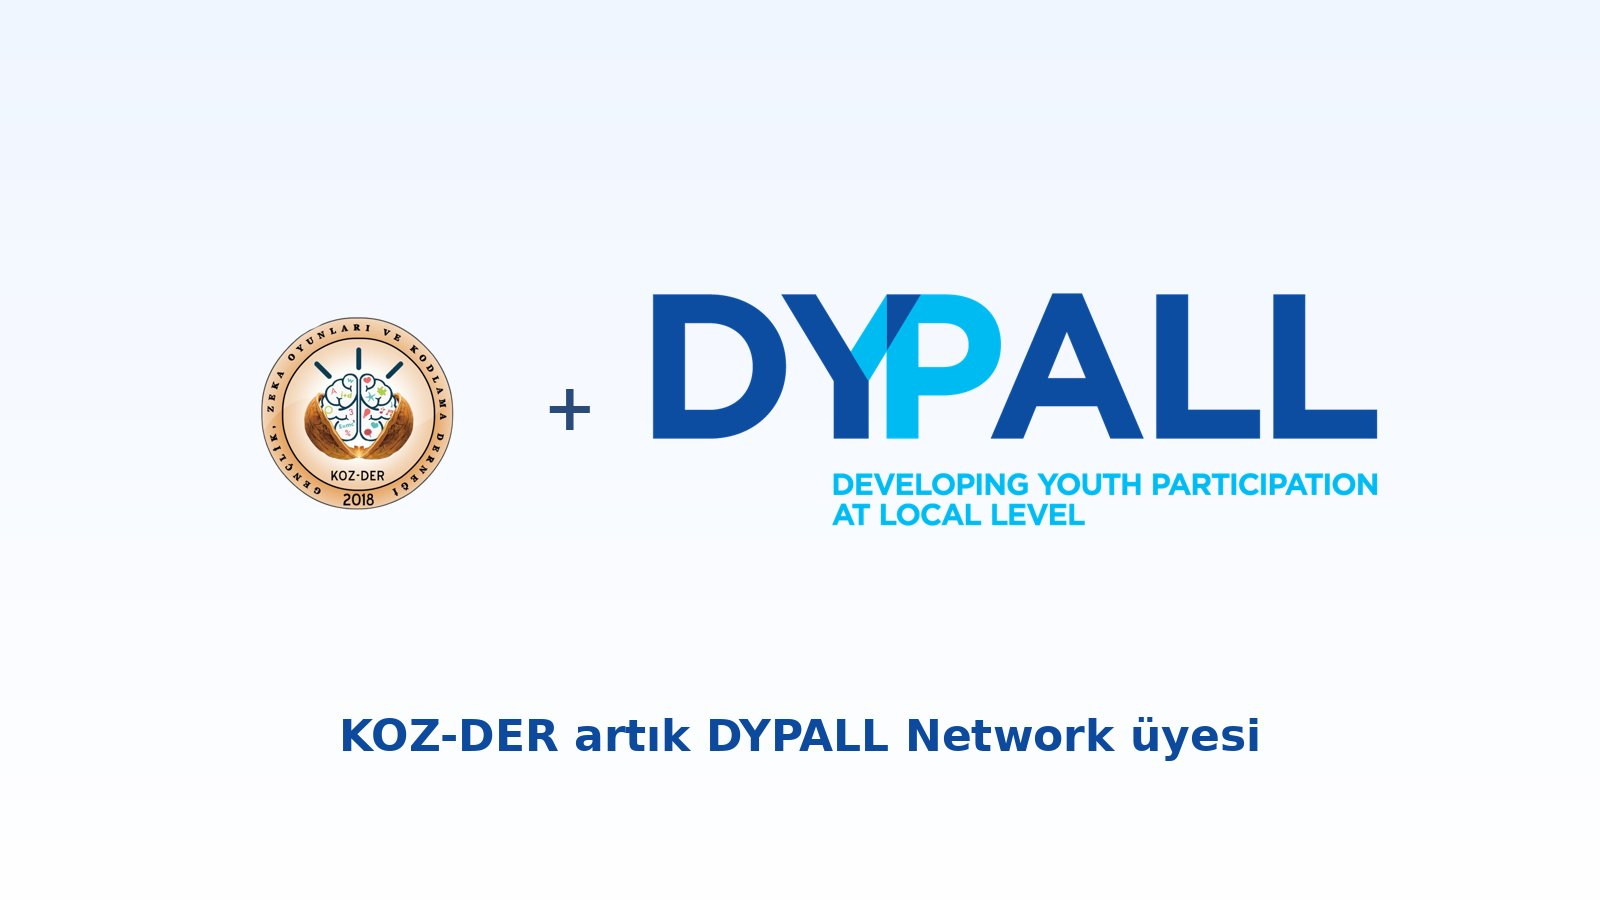
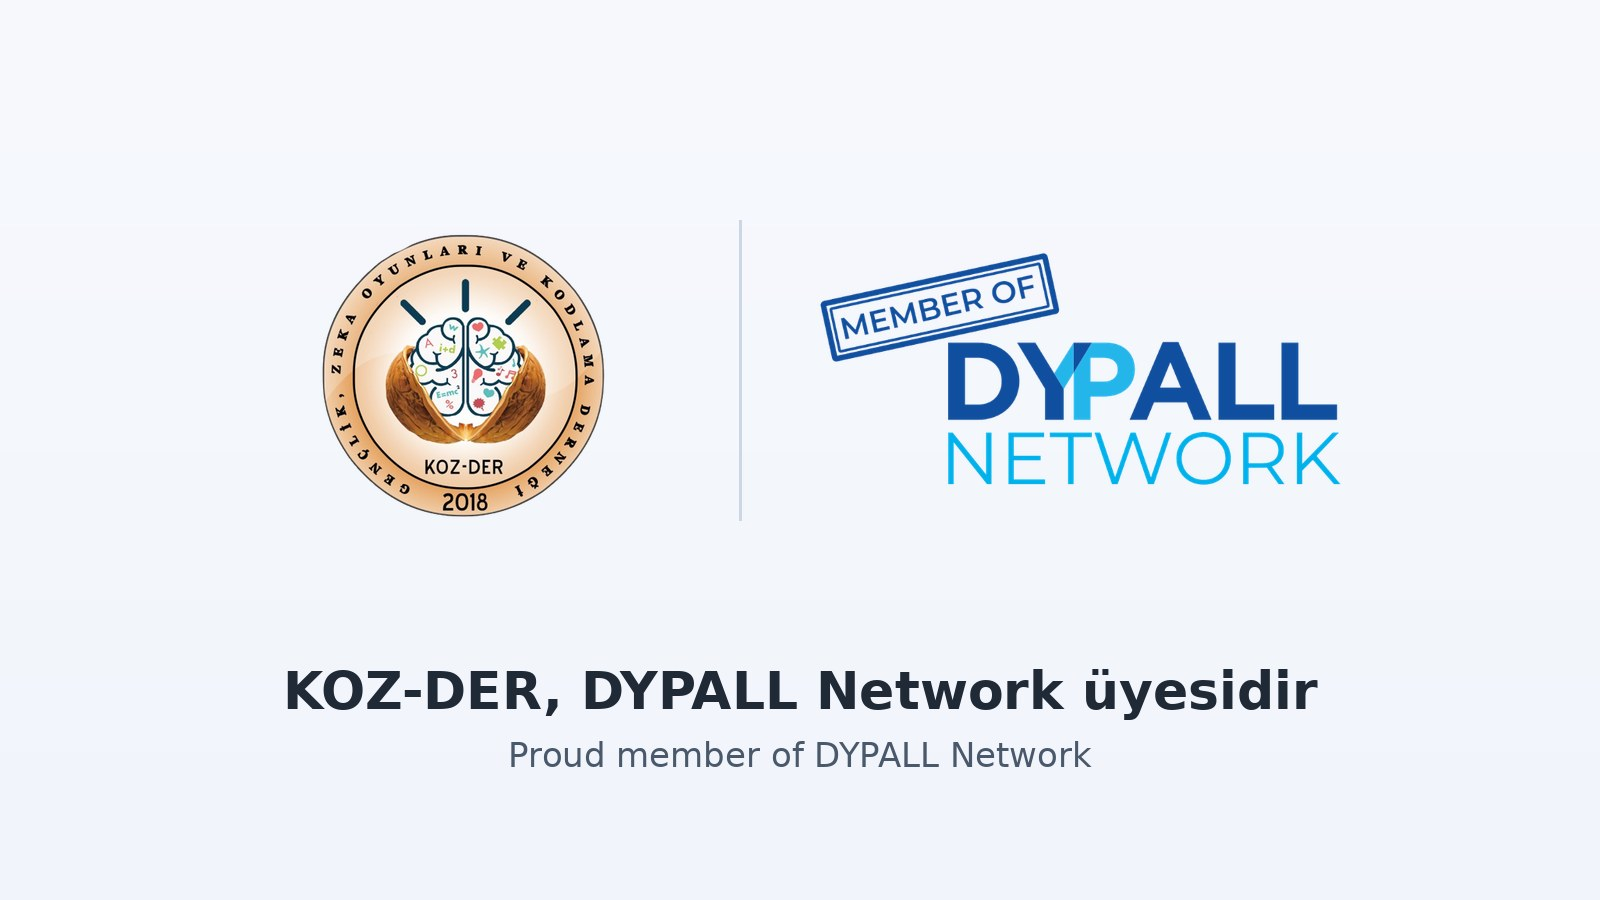
DYPALL üyelik haberi iletişim kitine göre düzeltildi: resmi açıklamalar, Member Badge, yeni kapak, ağlar listesinde rozet

Changed region(s): [[0.4062, 0.28, 0.875, 0.5911], [0.1562, 0.7467, 0.8438, 0.8711], [0.1562, 0.2489, 0.375, 0.5911]]

diff --git a/src/content/news/dypall-network-uyeligi.md b/src/content/news/dypall-network-uyeligi.md
@@ -4,42 +4,47 @@ title_en: "KOZ-DER Joins the DYPALL Network"
 date: "2026-10-15"
 location: "Kilis"
 coverImage: "/images/news/dypall-uyelik.jpeg"
-coverFit: "contain"
+coverFit: "cover"
 images:
   - "/images/news/dypall-uyelik.jpeg"
-summary_tr: "KOZ-DER, gençlerin yerel düzeyde karar alma süreçlerine katılımı üzerine çalışan ve 30’dan fazla ülkeden 80’i aşkın kuruluşu bir araya getiren Avrupa ağı DYPALL Network’ün üyesi oldu."
-summary_en: "KOZ-DER has joined DYPALL Network, a European platform of more than 80 organisations and local authorities from over 30 countries working on youth participation in local decision-making."
+summary_tr: "KOZ-DER, gençlerin yerel düzeyde karar alma süreçlerine katılımını güçlendirmek için çalışan Avrupa ağı DYPALL Network’ün üyesi oldu."
+summary_en: "KOZ-DER is now a proud member of DYPALL Network, a European network promoting youth participation in decision-making at the local level."
 featured: true
 draft: false
 ---
 
 # KOZ-DER, DYPALL Network’e Üye Oldu
 
-🌍🤝 **Gençlik Zekâ Oyunları ve Kodlama Derneği (KOZ-DER) olarak, Avrupa’nın önde gelen gençlik katılımı ağlarından DYPALL Network’e üye olduğumuzu duyurmaktan mutluluk duyuyoruz!**
+🌍🤝 **Gençlik Zekâ Oyunları ve Kodlama Derneği (KOZ-DER) olarak DYPALL Network’e üye olduğumuzu duyurmaktan mutluluk duyuyoruz. Artık gururla söyleyebiliriz: KOZ-DER, DYPALL Network üyesidir!**
 
-## DYPALL Network Nedir?
+Böylece gençlerin yerel düzeyde karar alma süreçlerine katılımını güçlendirmek için çalışan Avrupa çapındaki bir topluluğun parçası olduk.
 
-**DYPALL Network (Developing Youth Participation at Local Level – Yerel Düzeyde Gençlik Katılımını Geliştirme)**, gençlerin yerel düzeydeki karar alma süreçlerine katılımı üzerine çalışan sivil toplum kuruluşlarını, yerel yönetimleri ve araştırma kurumlarını bir araya getiren bir **Avrupa platformudur**. Ağda 30’dan fazla ülkeden 80’i aşkın sivil toplum kuruluşu ve yerel yönetim yer alıyor. Merkezi Portekiz’in Portimão kentinde bulunan ağ, gençlerin yerel demokrasilere yerel yönetimlerle iş birliği içinde etkin ve anlamlı biçimde katılımını savunuyor.
+## DYPALL Network Hakkında
 
-## Ağın Öncelikleri
+**DYPALL Network (Developing Youth Participation at Local Level – Yerel Düzeyde Gençlik Katılımını Geliştirme)**, yerel düzeyde gençlerin karar alma süreçlerine katılımına odaklanan sivil toplum kuruluşları, yerel yönetimler ve araştırma kurumlarından oluşan bir Avrupa platformudur. Ağ; iş birliğini teşvik ederek, kapasite geliştirerek ve katılımcı yönetişimi savunarak gençlerin karar alma süreçlerinde etkin ortaklar olarak tanındığı daha güçlü yerel demokrasilere katkı sunar.
 
-- Yerel düzeyde gençlerin karar alma süreçlerine katılımı için **yapılar ve mekanizmalar geliştirmek**
-- Gençlik politikalarını **yerel ve bölgesel düzeyde** yaygınlaştırmak
-- **Yerel gençlik meclisleri** gibi katılım alanlarını güçlendirmek ve bu yapılarda yer alan gençlerin kapasitesini artırmak
-- Üyeler arasında **iyi uygulama paylaşımı, eğitim ve kapasite geliştirme** imkânları sunmak
-- Yerel deneyimleri ve üyelerin sesini **Avrupa düzeyindeki gençlik politikası tartışmalarına** taşımak
+Kısaca: **DYPALL Network, belediyeleri, kurumları ve gençlik kuruluşlarını gençlerin yerel karar alma süreçlerini şekillendirebileceği kapsayıcı katılım mekanizmaları geliştirmeleri için güçlendiren bir Avrupa ağıdır.**
 
-DYPALL Network bünyesindeki **YP Lab**, yerel gençlik katılımı alanında araştırma ve kapasite geliştirme odaklı bir kaynak ve hareketlilik merkezi olarak çalışıyor. Ağ ayrıca Avrupa Konseyi Gençlik Dairesi iş birliğiyle eğitim ve çalışma oturumları düzenliyor; yerel gençlik katılımına dair yayınlar, rehberler ve araçlar hazırlıyor.
+### Misyon ve vizyon
+
+- **Misyon:** Yerel yönetimlerle birlikte, stratejiler geliştirerek ve aktörler arasında güvene dayalı yapılar ve ilişkiler kurarak gençlerin karar alma süreçlerine etkili ve sürdürülebilir katılımını sağlamak.
+- **Vizyon:** Yerel demokrasilerin gençler ve karar vericiler tarafından kapsayıcı, katılımcı ve anlamlı bir şekilde birlikte inşa edildiği bir toplum.
+
+### Değerler
+
+Demokratik değerler · Çeşitliliğe saygı · Kamu ve özel sektör arasında tamamlayıcılık · Ortak kararlar · Fırsat eşitliği · Sürdürülebilirlik
 
 ## Bu Üyelik KOZ-DER İçin Ne Anlama Geliyor?
 
-Kilis’te gençlerle yürüttüğümüz zekâ oyunları, kodlama, Speaking Club, çevre ve afet bilinci çalışmaları ile Erasmus+ ve Avrupa Dayanışma Programı deneyimimizi bu ağla buluşturuyoruz. Üyeliğimizle birlikte:
+Kilis’te gençlerle yürüttüğümüz zekâ oyunları, kodlama, Speaking Club, çevre ve afet bilinci çalışmalarımızı ve Erasmus+ ile Avrupa Dayanışma Programı deneyimimizi bu ağdaki kuruluşlarla buluşturuyoruz. Üyeliğimizle birlikte:
 
-- Avrupa’nın farklı ülkelerindeki kuruluş ve yerel yönetimlerle **yeni ortaklıklar** kurmayı,
-- Gençlerimizin **eğitim, çalışma oturumu ve hareketlilik** fırsatlarına erişimini artırmayı,
+- Avrupa’nın farklı ülkelerindeki üye kuruluşlarla **deneyim paylaşmayı ve yeni ortaklıklar kurmayı**,
+- Gençlerimizin **eğitim ve hareketlilik** fırsatlarına erişimini artırmayı,
 - Kilis’teki gençlerin **yerel karar alma süreçlerine daha fazla katılımı** için iyi uygulamaları şehrimize taşımayı,
-- Yerel deneyimlerimizi Avrupa düzeyindeki tartışmalarda **paylaşmayı** hedefliyoruz.
+- Kendi çalışmalarımızı ağın diğer üyeleriyle **paylaşmayı** hedefliyoruz.
 
 Gençlerin sesinin yerelde duyulduğu, kararların gençlerle birlikte alındığı bir gelecek için çalışmaya devam ediyoruz. 💙
 
-🔗 Ağ hakkında daha fazla bilgi: [dypall.com](https://dypall.com/)
+🔗 DYPALL Network hakkında daha fazla bilgi: [dypall.com](https://dypall.com/)
+
+*KOZ-DER’in faaliyetleri kendi sorumluluğundadır; DYPALL Network üyeliği bu faaliyetlerin ağ tarafından düzenlendiği ya da desteklendiği anlamına gelmez.*

diff --git a/src/content/news/en/dypall-network-uyeligi.md b/src/content/news/en/dypall-network-uyeligi.md
@@ -4,42 +4,47 @@ title_en: "KOZ-DER Joins the DYPALL Network"
 date: "2026-10-15"
 location: "Kilis"
 coverImage: "/images/news/dypall-uyelik.jpeg"
-coverFit: "contain"
+coverFit: "cover"
 images:
   - "/images/news/dypall-uyelik.jpeg"
-summary_tr: "KOZ-DER, gençlerin yerel düzeyde karar alma süreçlerine katılımı üzerine çalışan ve 30’dan fazla ülkeden 80’i aşkın kuruluşu bir araya getiren Avrupa ağı DYPALL Network’ün üyesi oldu."
-summary_en: "KOZ-DER has joined DYPALL Network, a European platform of more than 80 organisations and local authorities from over 30 countries working on youth participation in local decision-making."
+summary_tr: "KOZ-DER, gençlerin yerel düzeyde karar alma süreçlerine katılımını güçlendirmek için çalışan Avrupa ağı DYPALL Network’ün üyesi oldu."
+summary_en: "KOZ-DER is now a proud member of DYPALL Network, a European network promoting youth participation in decision-making at the local level."
 featured: true
 draft: false
 ---
 
 # KOZ-DER Joins the DYPALL Network
 
-🌍🤝 **We are happy to announce that KOZ-DER (Youth Mind Games and Coding Association) has become a member of DYPALL Network, one of Europe's leading youth participation networks!**
+🌍🤝 **We are happy to announce that KOZ-DER (Youth Mind Games and Coding Association) has become a member of DYPALL Network. We can now proudly say: KOZ-DER is a proud member of DYPALL Network!**
 
-## What Is DYPALL Network?
+We are now part of DYPALL Network, a European network promoting youth participation in decision-making at the local level.
 
-**DYPALL Network (Developing Youth Participation at Local Level)** is a **European platform** of civil society organisations, local authorities and research institutions focusing on youth participation in decision-making at the local level. It brings together more than 80 civil society organisations and local authorities from over 30 countries. Based in Portimão, Portugal, the network stands for the active and meaningful involvement of young people in local democracy through cooperation with local authorities.
+## About DYPALL Network
 
-## The Network's Priorities
+**DYPALL Network (Developing Youth Participation at Local Level)** is a European platform of civil society organisations, local authorities and research institutions focusing on youth participation in decision-making processes at the local level. By fostering cooperation, building capacities and advocating for participatory governance, the network contributes to stronger local democracies where young people are recognised as active partners in decision-making.
 
-- Developing **structures and mechanisms** for youth participation in local decision-making
-- Mainstreaming youth policies at **local and regional level**
-- Strengthening spaces such as **local youth councils** and building the capacity of the young people in them
-- Offering members **exchange of good practice, training and capacity building**
-- Bringing local experience and members' voices into **European youth policy discussions**
+In short: **DYPALL Network is a European network that empowers municipalities, institutions and youth organisations to develop inclusive participation mechanisms that enable young people to shape local decision-making.**
 
-**YP Lab**, part of DYPALL Network, is a resource and mobility centre focused on research and capacity building in local youth participation. The network also runs training and study sessions in cooperation with the Council of Europe Youth Department, and produces publications, guides and tools on local youth participation.
+### Mission and vision
+
+- **Mission:** DYPALL Network stands for the creation of effective and sustainable involvement of youth in decision-making with local authorities through the development of strategies and building structures and relations of trust between actors.
+- **Vision:** We strive for a society in which local democracies are built jointly by young people and decision-makers in an inclusive, participatory and meaningful way.
+
+### Values
+
+Democratic values · Respect for diversity · Complementarity between public and private sector · Shared decisions · Equal opportunities · Sustainability
 
 ## What This Membership Means for KOZ-DER
 
-We bring our work with young people in Kilis, including mind games, coding, Speaking Club, environmental and disaster awareness activities, and our Erasmus+ and European Solidarity Corps experience, into this network. Through our membership we aim to:
+We bring our work with young people in Kilis, including mind games, coding, Speaking Club, environmental and disaster awareness activities, and our Erasmus+ and European Solidarity Corps experience, to the organisations in this network. Through our membership we aim to:
 
-- build **new partnerships** with organisations and local authorities across Europe,
-- widen our young people's access to **training, study sessions and mobility** opportunities,
+- **share experience and build new partnerships** with member organisations across Europe,
+- widen our young people's access to **training and mobility** opportunities,
 - bring good practice to Kilis so that young people take a **greater part in local decision-making**,
-- **share** our local experience in European-level discussions.
+- **share** our own work with the other members of the network.
 
 We will keep working for a future where young people's voices are heard locally and decisions are made together with them. 💙
 
-🔗 More about the network: [dypall.com](https://dypall.com/)
+🔗 More about DYPALL Network: [dypall.com](https://dypall.com/)
+
+*KOZ-DER's activities are its own responsibility; membership of DYPALL Network does not mean that the network organises or endorses them.*
